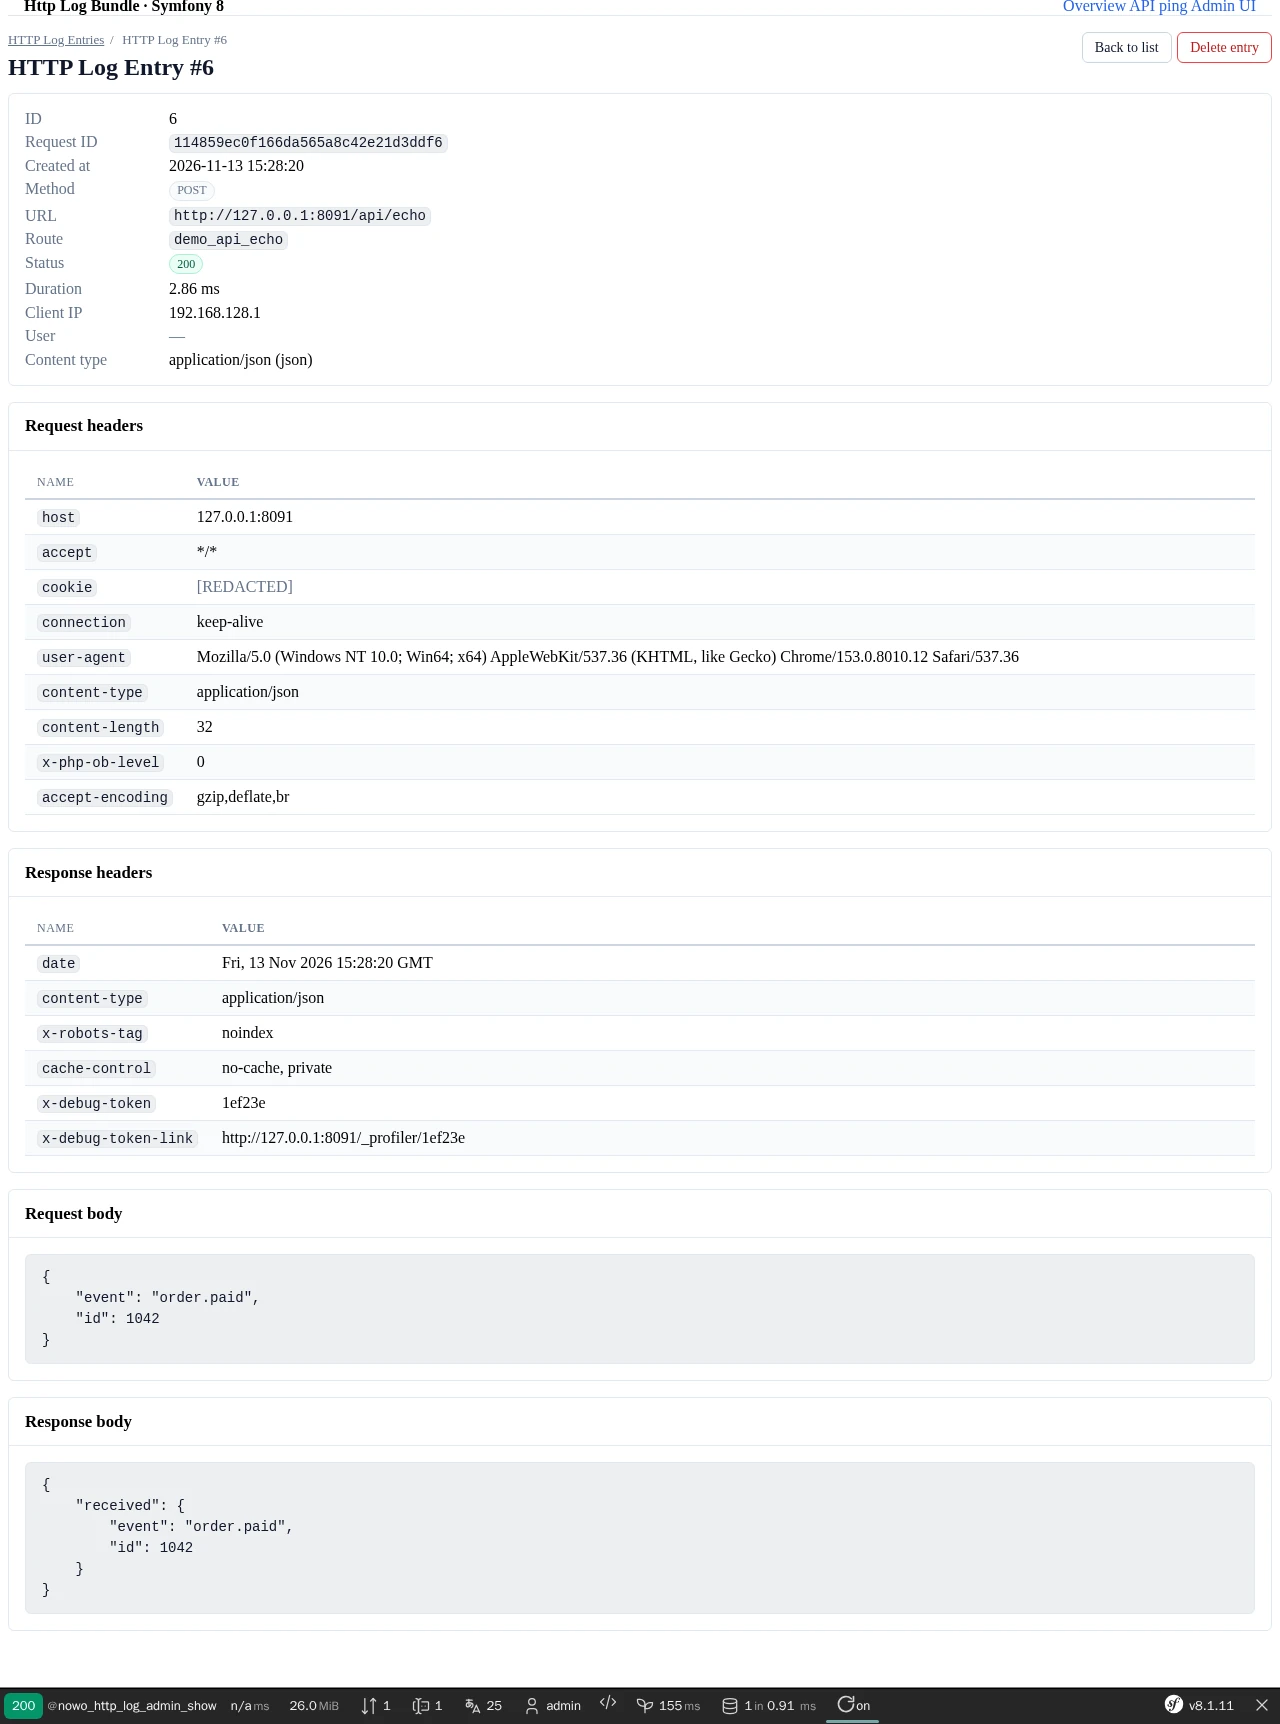
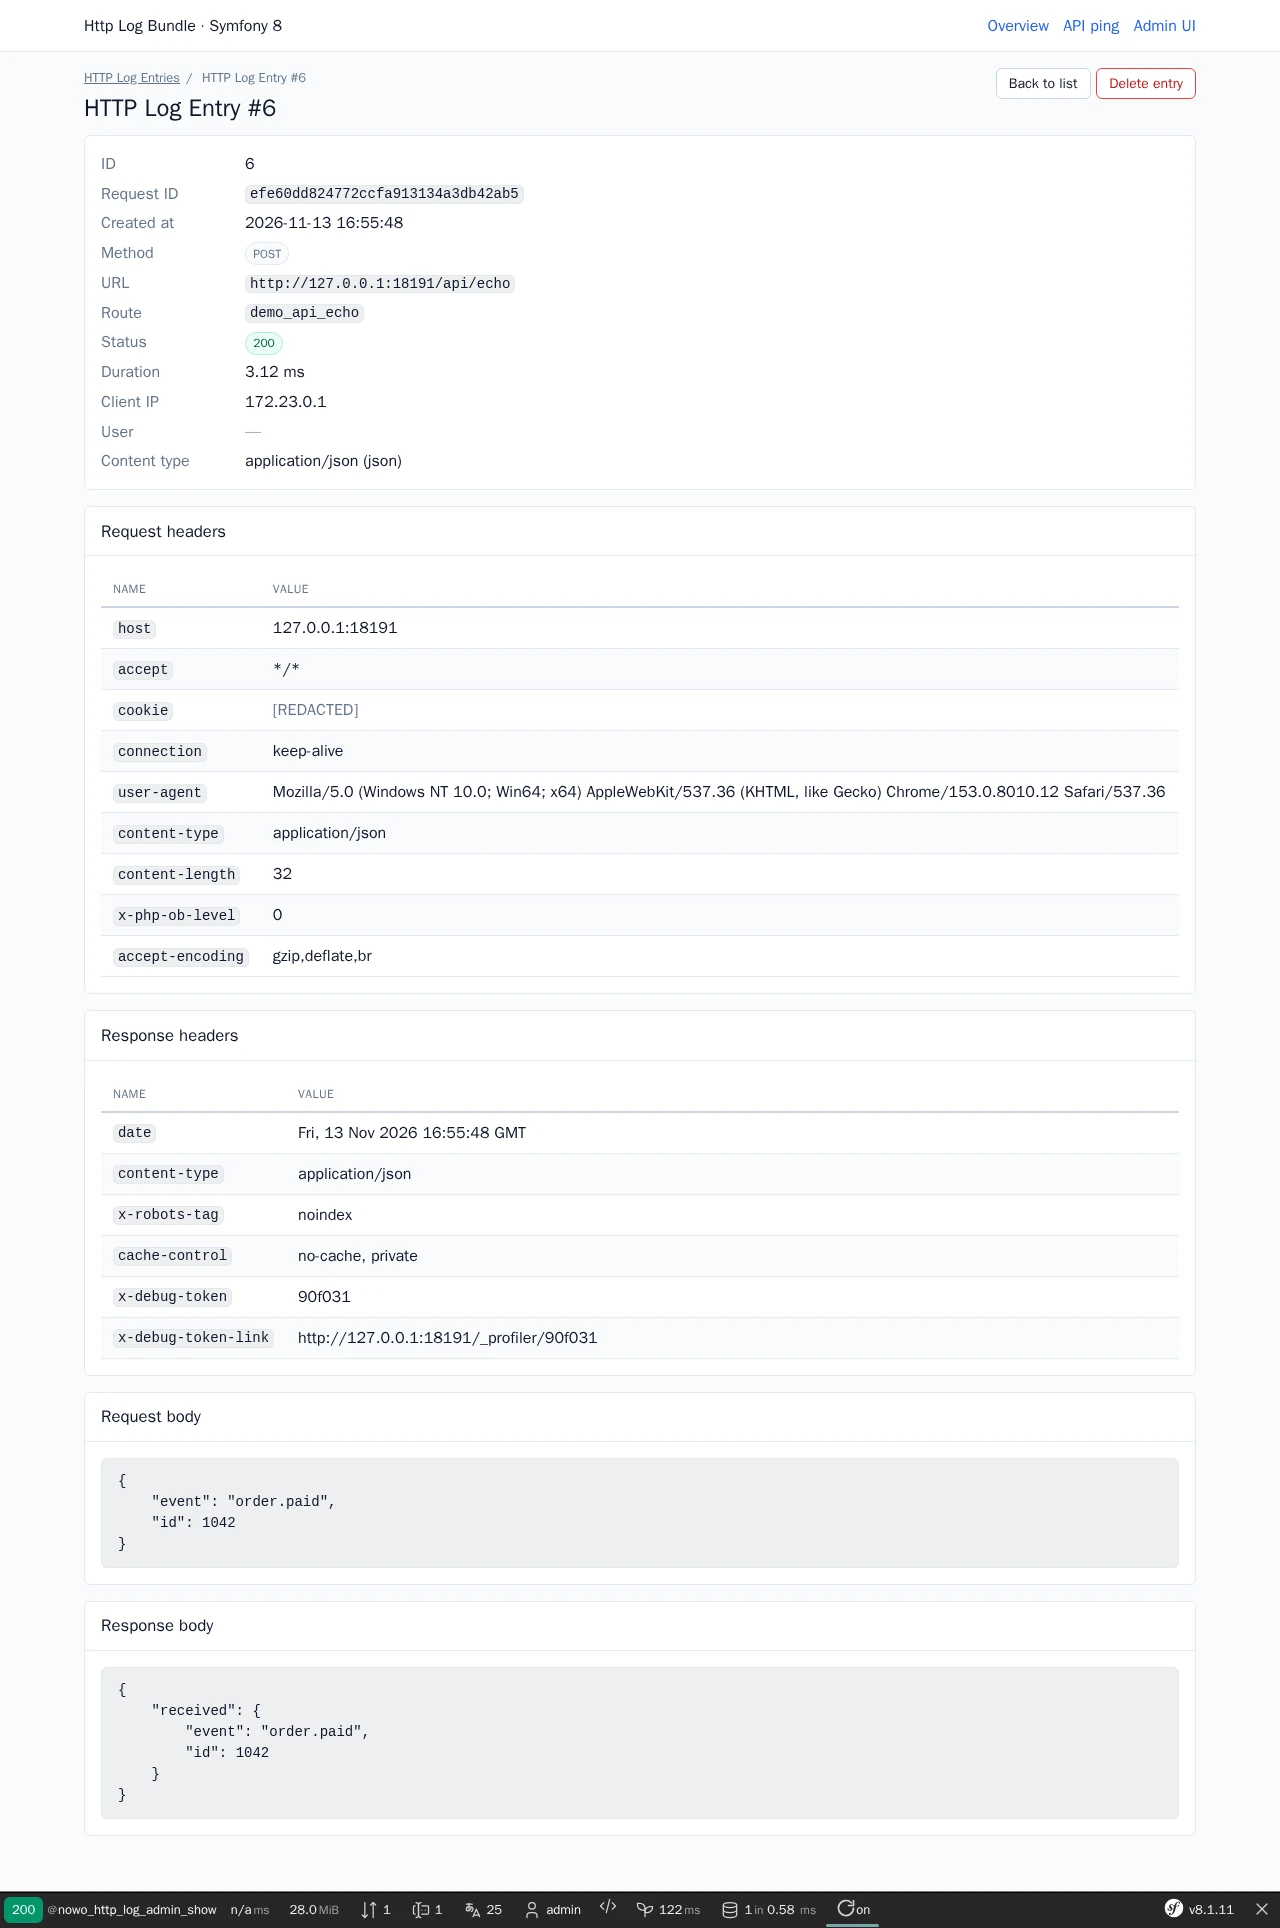
chore(docs): demo opts into UiKit base theme, masthead nav fixed, screenshots regenerated

diff --git a/demo/symfony8/e2e/tests/screenshots.spec.ts b/demo/symfony8/e2e/tests/screenshots.spec.ts
@@ -13,7 +13,7 @@ const outDir = process.env.SCREENSHOT_DIR
 
 const WIDTH = 1280;
 const PAD = 16;
-const CHROME = 'nav.navbar, main';
+const CHROME = '.nowo-ui-header, main';
 
 test.use({ viewport: { width: WIDTH, height: 900 } });
 

diff --git a/demo/symfony8/config/reference.php b/demo/symfony8/config/reference.php
@@ -1491,6 +1491,7 @@ use Symfony\Component\Config\Loader\ParamConfigurator as Param;
  *             testid?: scalar|Param|null, // Default: null
  *         }>,
  *     },
+ *     base_stylesheet?: bool|Param, // 2.51: link UiKit's opt-in default theme (css/nowo-ui-base.css) before nowo-ui.css in the document / error layouts: body font stack, page gutters and masthead height for hosts that bring no CSS framework and no theme stylesheet. Its rules nest in `@layer theme.nowo-ui-base`, below `base`, so a framework, host utilities and unlayered host CSS still win. Leave it false when the host already has a framework or a theme file. // Default: false
  *     font_preload?: array{ // 2.21: <link rel="preload" as="font" crossorigin> tags printed in the <head> of the document and error layouts (Twig nowo_ui_font_preload()) for the fonts painted above the fold. Empty = no tags.
  *         fonts?: list<scalar|Param|null>,
  *         manifest?: array{ // Hashed builds: pick the fonts from a Vite manifest (.vite/manifest.json). A missing manifest (dev server) prints nothing.
